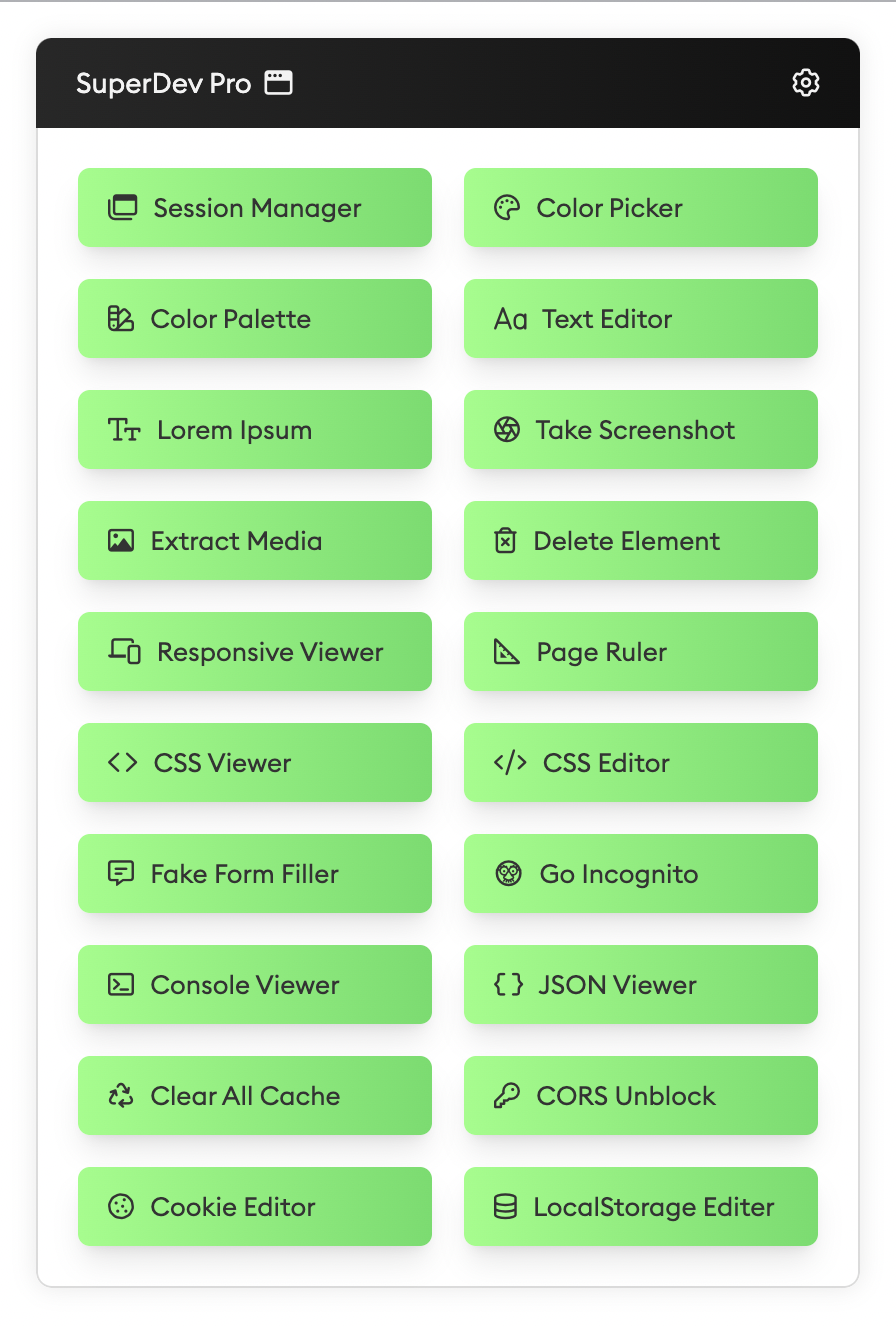
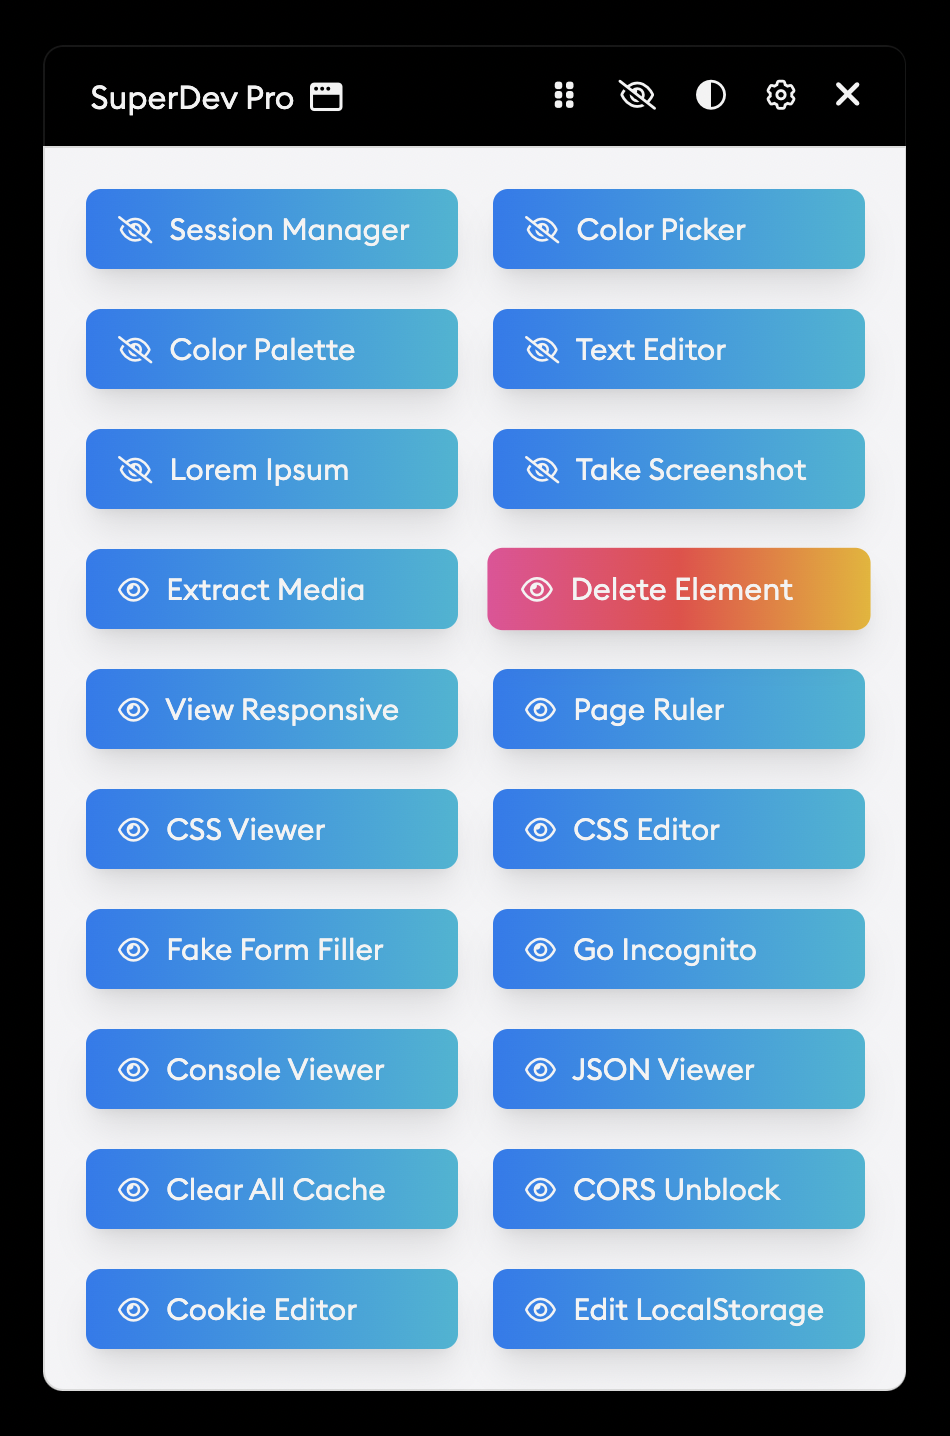
Screenshots Updated

diff --git a/README.md b/README.md
@@ -31,7 +31,7 @@ List of Feature below -
 <p align="center">
   <img src="https://github.com/twoabd/SuperDev/blob/main/screenshots/1.png" width="273">
   <img src="https://github.com/twoabd/SuperDev/blob/main/screenshots/2.png" width="273">
-  <img src="https://github.com/twoabd/SuperDev/blob/main/screenshots/1.1.png" width="273">
+  <img src="https://github.com/twoabd/SuperDev/blob/main/screenshots/3.png" width="273">
 </p>
 
 ## Commands
